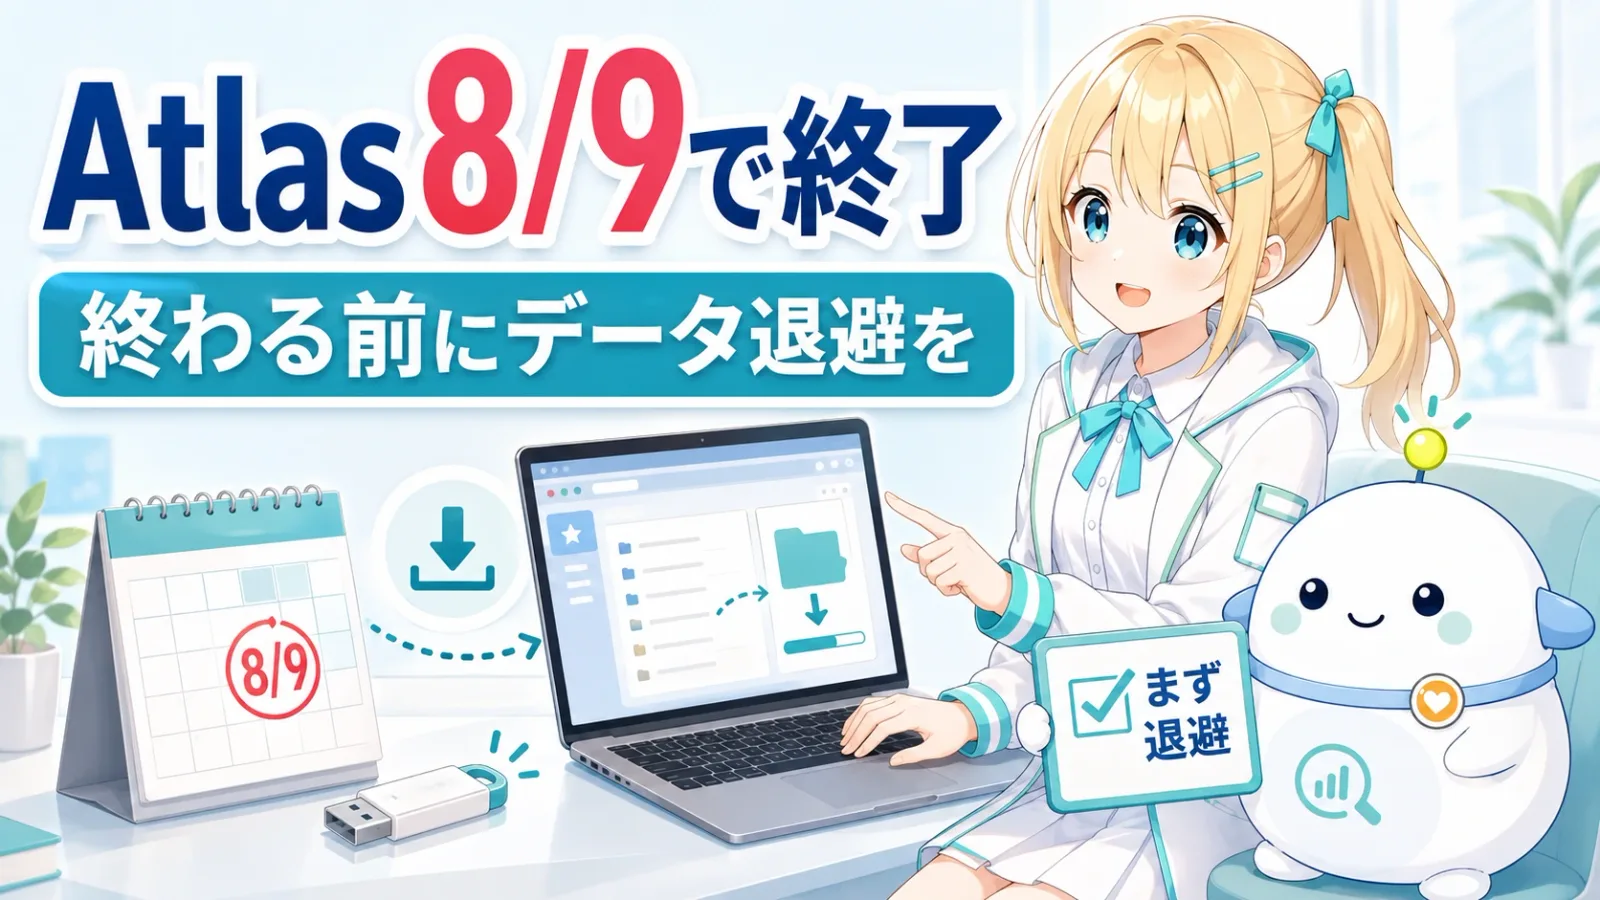
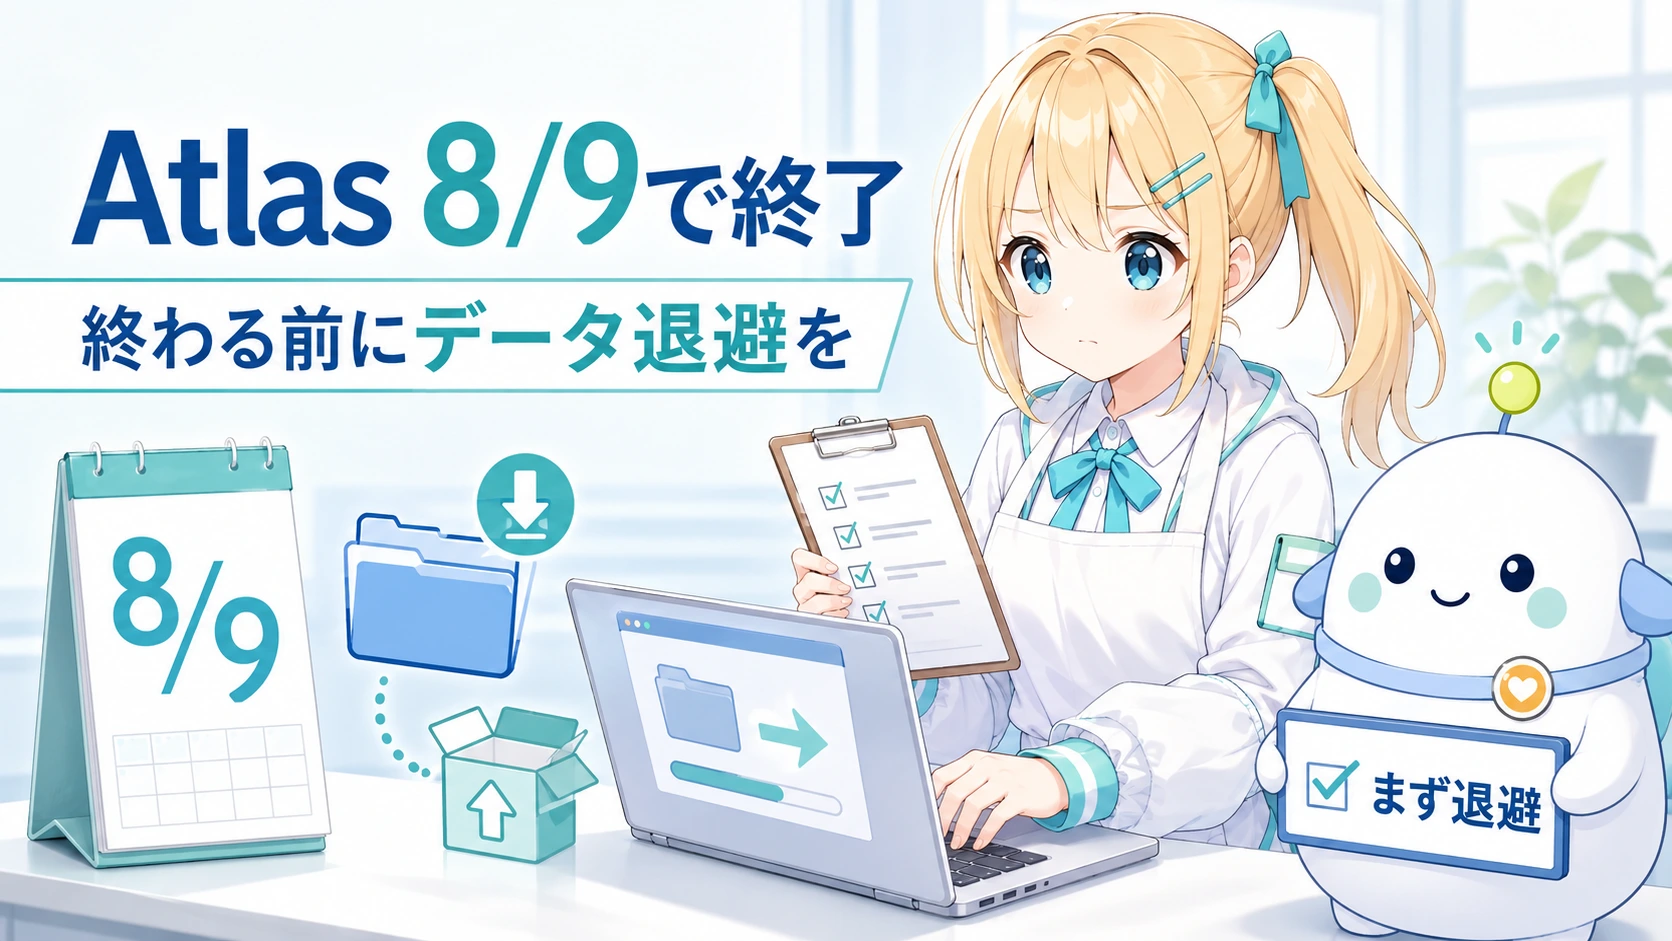
fix(thumbnail): サムネ感情トーン恒久ルール追加＋Atlas終了記事サムネを注意・惜別トーンで差し替え
終了・障害・値上げ・リコール等の「注意・惜別」系記事で、標準衣装のキャラが
ニコニコしてトーンが記事と矛盾する問題を恒久修正。

- character-sheet.md: サムネイル方針に「記事の感情トーンを表情・仕草に反映する」節を追加
  （ポジティブ/ニュートラル/注意・惜別の3分類→表情・対処行動をマッピング。注意・惜別系は
  真剣/少し困り顔＋確認・メモ・カレンダー指し・退避作業。ニコニコ禁止）。
  衣装マッピングに「終了/サービス終了/移行・データ退避＝作業・整理の装い」行を追加。
- generate-slide-factcheck-prompt.mjs: 評価項目12「表情・トーンが記事の性質と矛盾していないか」
  を追加（終了/障害/リコール記事で満面の笑みなら needs_revision）。
- night_driver_prompt.md: 画像factcheックに項目12参照を追記。
- Atlas終了記事サムネを新ルールで再生成し差し替え（真剣な表情でエプロン+チェックリスト、
  ノートPCでデータ退避作業、8/9カレンダー維持、認識アンカー不変、文字化けなし）。

diff --git a/docs/night_driver_prompt.md b/docs/night_driver_prompt.md
@@ -61,8 +61,8 @@ npm run article -- --theme "<pickedのタイトルを元にした記事テーマ
   - `blocked_image_generation_unavailable` で止まってよいのは、**プロジェクトファイルに正本2枚が見つからない場合**（人間による再アップロードが必要）と、ChatGPT 自体に到達できない環境ブロックだけ。「再シードが必要」はもう停止理由にならない。
   - **再シードの前倒し（2026-07-07 追加・キャラ参照劣化対策）**: `generatedSinceSeed` が `reseedThreshold`(=10) を超える前、かつ **前記事ぶん(7〜8枚)を生成し終えていたら**、続きに詰め込まず上記テキストのみ再シードを優先する。参照劣化は8枚1バッチの後半から出るため（2026-07-06 の ai-assistant 記事は slide06 からキャラ崩壊）。生成のたびに `generatedSinceSeed` を +1 する。
   - 旧方式（正本2枚をチャットに添付＝`chatgpt-attach-files-clipboard.ps1`）は**対話セッション限定のフォールバック**。ヘッドレスでは使わない。**それ以外の画像貼り付けを伴う作業**（プロジェクトファイルの正本再アップロード等）は従来どおり前面化チェック 1 回・粘らない（2026-07-12 規定）。
-- **画像ファクトチェックは自分の目で行う**: 8 枚すべて Read で読み、slide_plan の数値・固有名詞・曜日・鉤括弧まで突き合わせる。**さらにキャラの視覚的破綻を「認識アンカー」で確認する（ひまり=金髪サイドテール・青い瞳・顔立ち・頭身／らぼまる=白い卵型ボディ・黄緑アンテナ・胸のオレンジのハートボタン。アンカー逸脱＝別人化・人型メカ化・途中からの変化は blocking）とレイアウト破綻・文字化けも必ず確認する**（`generate-slide-factcheck-prompt` の項目10/11）。**服・小道具の違いそのものは破綻ではない**（ただしスライド8枚は標準衣装で一貫が原則。バラつきは warning）。不合格は該当のみ再生成（最大 2 回）。「全体の見た目が良ければ pass」で崩れを見逃さない。結果は factcheck.json に正直に記録する。
-- **サムネの衣装チェック（崩れ検査とは別・★2026-07-08）**: サムネは `assets/characters/character-sheet.md` の「サムネの衣装は変えることを基本」に沿って、**記事テーマから連想される衣装・小道具・シチュエーションが標準から変えてあるか**を確認する。**標準衣装のままでも崩れではないので needs_revision にはしない**が、factcheck.json に `thumbnailCostume: "themed"`（テーマに沿って変えてある）/ `"standard_improvable"`（標準のまま＝改善余地あり）を記録する。`standard_improvable` は無人runでは注意ログに留め停止しない（立ち会い時のみ 1 枚差し替え再生成を検討）。認識アンカー不変・露出過多NGは前提。
+- **画像ファクトチェックは自分の目で行う**: 8 枚すべて Read で読み、slide_plan の数値・固有名詞・曜日・鉤括弧まで突き合わせる。**さらにキャラの視覚的破綻を「認識アンカー」で確認する（ひまり=金髪サイドテール・青い瞳・顔立ち・頭身／らぼまる=白い卵型ボディ・黄緑アンテナ・胸のオレンジのハートボタン。アンカー逸脱＝別人化・人型メカ化・途中からの変化は blocking）とレイアウト破綻・文字化けも必ず確認する**（`generate-slide-factcheck-prompt` の項目10/11）。**さらに項目12＝表情・トーンが記事の性質と矛盾していないかを確認する**（終了・障害・値上げ・リコール等の「注意・惜別」系記事で満面の笑み・はしゃぎ顔なら blocking。真剣／少し困り顔＋確認・メモ・退避作業などの対処行動が正。基準は `assets/characters/character-sheet.md`「記事の感情トーンを表情・仕草に反映する」）。**服・小道具の違いそのものは破綻ではない**（ただしスライド8枚は標準衣装で一貫が原則。バラつきは warning）。不合格は該当のみ再生成（最大 2 回）。「全体の見た目が良ければ pass」で崩れを見逃さない。結果は factcheck.json に正直に記録する。
+- **サムネの衣装チェック（崩れ検査とは別・★2026-07-08）**: サムネは `assets/characters/character-sheet.md` の「サムネの衣装は変えることを基本」に沿って、**記事テーマから連想される衣装・小道具・シチュエーションが標準から変えてあるか**を確認する。**標準衣装のままでも崩れではないので needs_revision にはしない**が、factcheck.json に `thumbnailCostume: "themed"`（テーマに沿って変えてある）/ `"standard_improvable"`（標準のまま＝改善余地あり）を記録する。`standard_improvable` は無人runでは注意ログに留め停止しない（立ち会い時のみ 1 枚差し替え再生成を検討）。認識アンカー不変・露出過多NGは前提。**加えて感情トーン（注意・惜別系でニコニコしていないか）は項目12として blocking 対象**なので、衣装が themed でも表情が記事と矛盾していれば needs_revision で再生成する。
 - MDX 本文では `docs/article_components_v3.md` に従い、v3 コンポーネント（`Summary30`＝30秒サマリー、確度 `Callout`＝facts/claims/unc、`CharacterBubble`＝吹き出し、`NumCards`＝数字カード、`Timeline`＝経緯）を使用する（2026-07-08 有効化）。図解スライドの書式・`## 参考情報`は従来どおり併用。facts/claims/uncertain は Callout kind と 1:1 対応させる。
 - MDX の frontmatter `publishAt` は**現在時刻より前**（例: 実行時刻の 1 時間前）にすること（未来時刻だと build から除外され finalize が落ちる。2026-07-05 の実障害）。
 - orchestrator が 2 回失敗で halted になったら: 原因が自明な環境要因（publishAt 等）なら state の halted を解除して 1 回だけ再開してよい。それ以外は中止 → 通知 → 終了。

diff --git a/assets/characters/character-sheet.md b/assets/characters/character-sheet.md
@@ -58,6 +58,21 @@
 - サムネも画像ファクトチェックの対象（文字・固有名詞・ブランド名の誤記検査）
 - 16:9 1600×900。実在ロゴ精密再現なし・日本円なし・炎上風なし
 
+### 記事の感情トーンを表情・仕草に反映する ★恒久方針（2026-07-14）
+
+サムネの表情・仕草は、**記事の感情トーン**に合わせる。明るい絵柄を全記事に一律で使わない（終了・障害・値上げの記事で満面の笑みになる事故を防ぐ）。**記事テーマを次の 3 分類のどれかに判定し、対応する表情・仕草をプロンプトに明記する。**
+
+| 感情トーン | 該当する記事テーマ | ひまりの表情 | 仕草（対処行動） |
+|---|---|---|---|
+| **ポジティブ** | 新機能・復活・延長・無料化・便利になった話 | 明るい・うれしい・ワクワク（従来どおり） | 使ってみる・喜ぶ・指さして紹介する |
+| **ニュートラル** | 解説・比較・基礎知識・仕組みの整理 | 落ち着き・興味・真面目（笑顔は控えめでよい） | 見比べる・整理する・考える |
+| **注意・惜別** | 終了・サービス終了・障害・不具合・値上げ・リコール・脆弱性 | **真剣な表情／少し困り顔／心配顔。ニコニコは禁止** | **確認する・メモを取る・カレンダーを指す・退避作業をする（対処行動）** |
+
+- **注意・惜別系は「不安を煽る絶望顔」でもない。** 落ち着いて対処している真剣さ（「期限までにやっておこう」の顔）にする。炎・涙・パニックは不可。
+- らぼまるも同様にトーンを合わせる（ポジ＝弾む／注意・惜別＝落ち着いて案内・チェック役に徹する）。
+- **ポジ系は従来どおり明るくてよい。** トーン指定はあくまで「明るさが記事内容と矛盾する場合の抑制」であって、全記事を暗くするものではない。
+- このトーン判定はサムネ・本文スライド両方に効かせる（終了記事でスライド内のキャラだけニコニコ、も不整合）。
+
 ### サムネの衣装は「変えることを基本とする」★恒久方針（2026-07-08）
 
 サムネは体験図なので、キャラの**衣装・小道具・シチュエーションをテーマに合わせて変えるのを既定**とする。
@@ -80,6 +95,7 @@
 | 季節ネタ（夏/冬/年末 等） | 季節の装い（夏＝軽装・麦わら、冬＝マフラー/コート、年末＝和装 等） |
 | セキュリティ / 注意喚起 | 探偵/ガード風の装い・虫めがね・盾アイコン |
 | 時間 / 締切 / カレンダー系 | カレンダー・大きな時計・砂時計・「締切」メモを持つ構図 |
+| 終了 / サービス終了 / 移行・データ退避 | 作業・整理の装い（エプロン・作業用アームカバー・チェックリスト/クリップボードを持つ）・移行用の箱やフォルダ。**標準衣装のまま棒立ちは避ける** |
 
 > スライド8枚側は上表を適用しない（標準衣装で一貫させる）。衣装バリエーションはサムネ専用。
 
